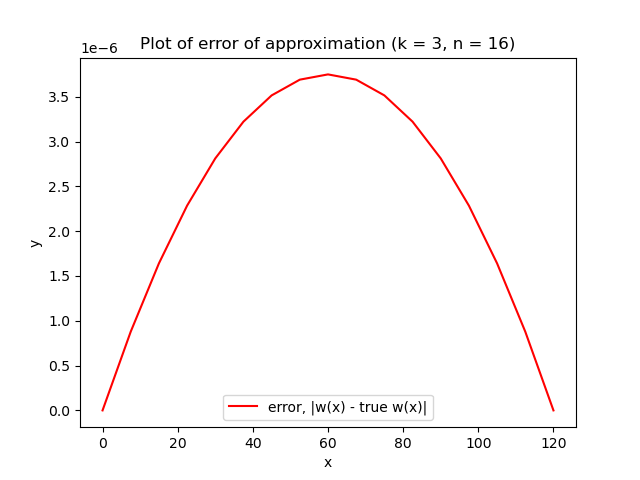
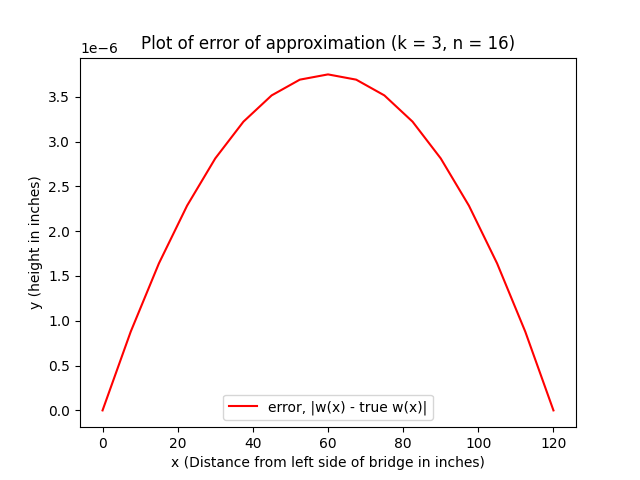
bb

diff --git a/setup.py b/setup.py
@@ -60,7 +60,7 @@ m = 14
 colour = (1,0,0)
 KN_list = []
 E_list = []
-for k in range(1,m):
+for k in range(1,21):
     n = 2 ** (k + 1) # Example number of intervals
 
     A, b = setup(n)
@@ -105,12 +105,12 @@ for k in range(1,m):
         plt.legend()
 
         # Add labels and title
-        plt.xlabel('x')
-        plt.ylabel('y')
+        plt.xlabel('x (Distance from left side of bridge in inches)')
+        plt.ylabel('y (height in inches)')
         plt.title('Plot of true and approximate deflection of beam (k = ' + str(k) + ", n = " + str(n) + ")")
 
         plt.show()
-    elif False: 
+    elif True: 
         plt.clf()
         plt.plot(num, np.abs(ext_true_x - ext_x), label='error, |w(x) - true w(x)|', color='red')
 
@@ -118,8 +118,8 @@ for k in range(1,m):
         plt.legend()
 
         # Add labels and title
-        plt.xlabel('x')
-        plt.ylabel('y')
+        plt.xlabel('x (Distance from left side of bridge in inches)')
+        plt.ylabel('y (height in inches)')
         plt.title('Plot of error of approximation (k = ' + str(k) + ", n = " + str(n) + ")")
         # print(len('Plot of error between true and approximate deflection of beam'))
         
@@ -135,8 +135,8 @@ for k in range(1,m):
         # plt.legend()
 
         # Add labels and title
-        plt.xlabel('x')
-        plt.ylabel('y')
+        plt.xlabel('x (Distance from left side of bridge in inches)')
+        plt.ylabel('y (height in inches)')
         plt.title('Log errors, red is low k')
         # print(len('Plot of error between true and approximate deflection of beam'))
         
